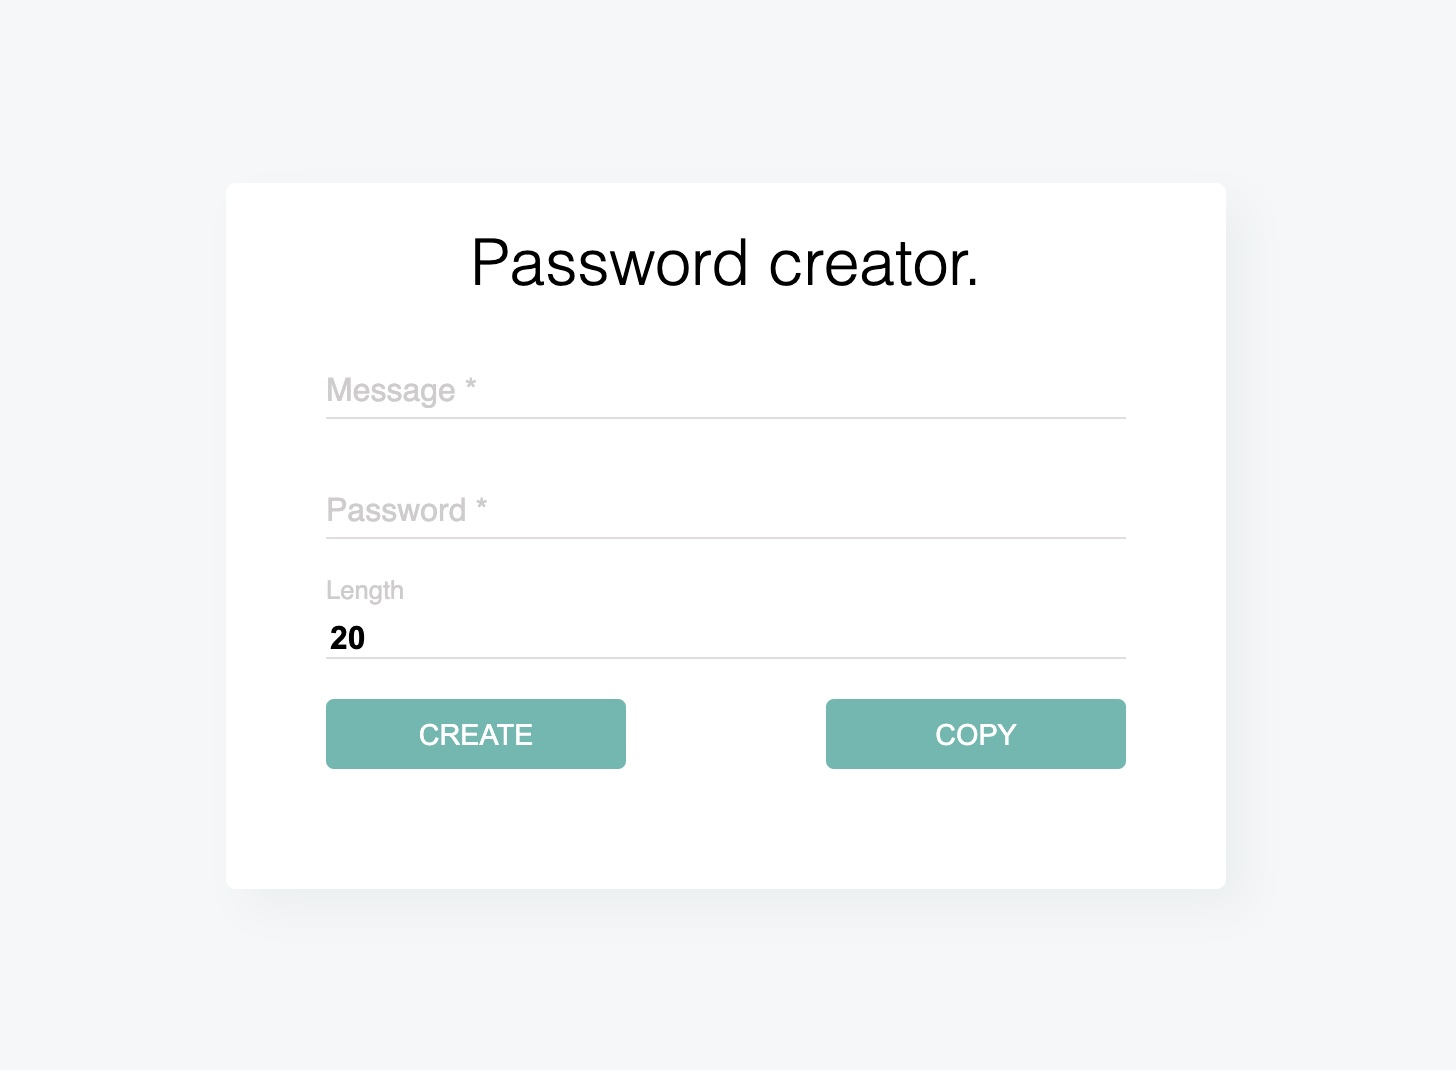
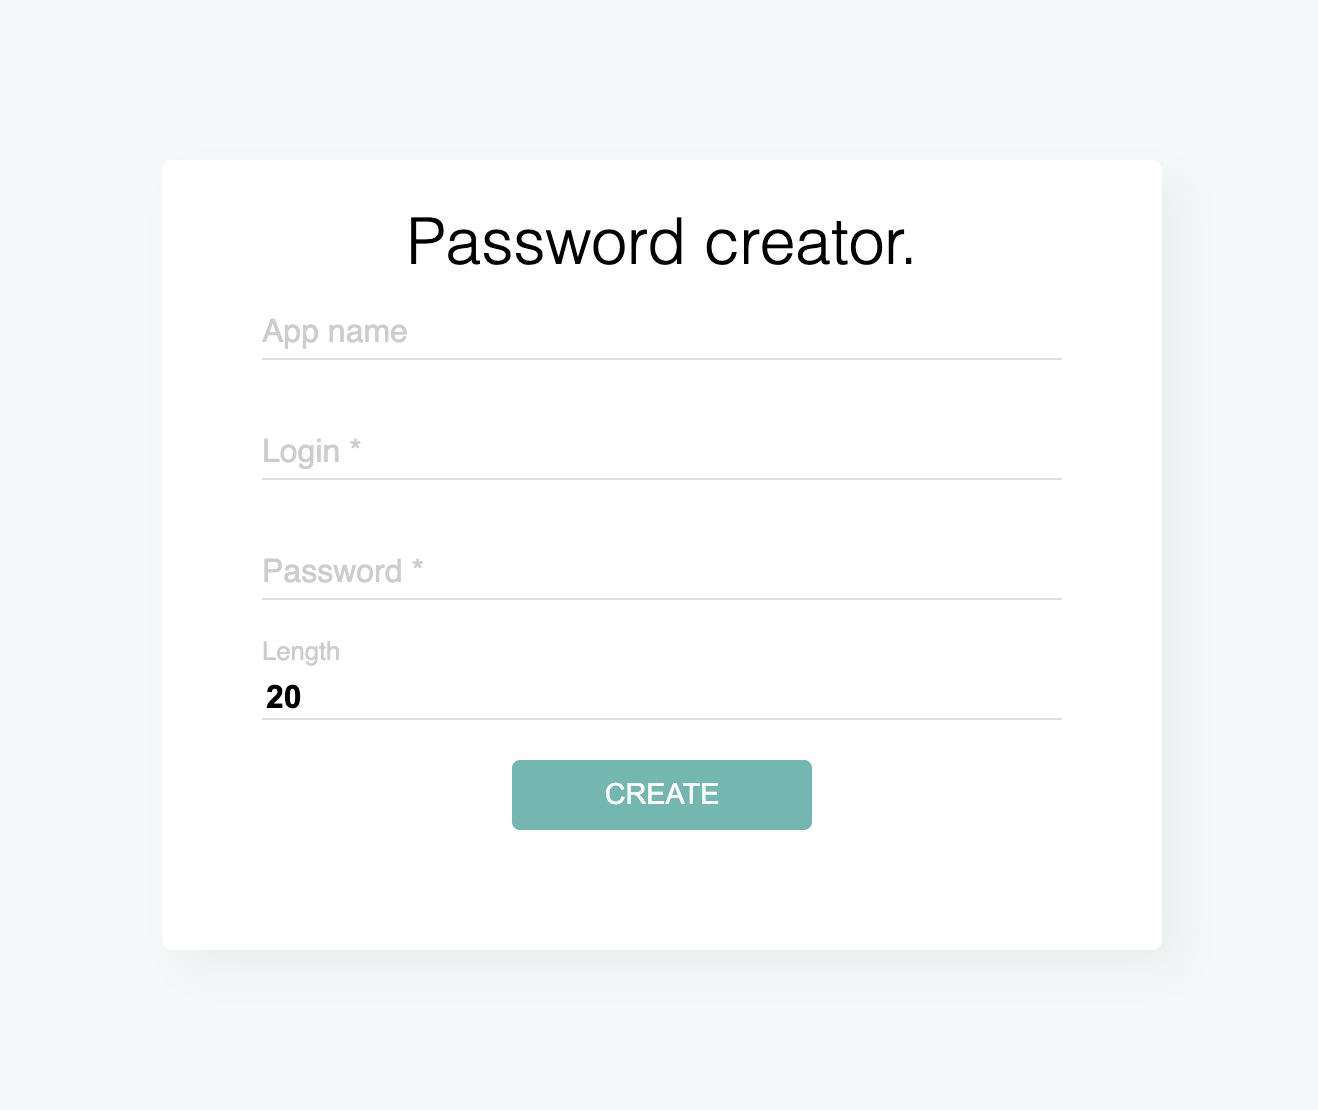
Updated an image, description. Added trimming of inputs

diff --git a/src/Controller.js b/src/Controller.js
@@ -17,12 +17,12 @@ export default class Controller {
 
   handleChangeAppName() {
     const appName = this.view.nodes.appName;
-    appName.value = appName.value.toLowerCase();
+    appName.value = appName.value.toLowerCase().trim();
   }
 
   handleChangeLogin() {
     const login = this.view.nodes.login;
-    login.value = login.value.toLowerCase();
+    login.value = login.value.toLowerCase().trim();
   }
 
   handleClickEncryptBtn() {

diff --git a/README.md b/README.md
@@ -5,31 +5,36 @@
 ---
 
 This tool helps you to create a strong password by using a simple one.
-It uses [SHA3](https://en.wikipedia.org/wiki/SHA-3) algorithm under the hood.
+
+###### It uses [SHA3](https://en.wikipedia.org/wiki/SHA-3) algorithm under the hood.
 
 
 ### Examples
 
-You need to know only one password. For example - `supermanpass`.
+You need to know only one password. For example - `my_easy_password`.
 
-- Message: `superman33@gmail.com`
-- Passowrd: `supermanpass`
+- App name: ``
+- Login *: `superman33@gmail.com`
+- Passowrd *: `my_easy_password`
 - Length: `20`
-- Result: `7gH12wa0EraHPFDPghih`
+- Result: `TwAwpvi4Rj1PrgiL8ZZA`
 ---
-- Message: `steam superman33`
-- Passowrd: `supermanpass`
-- Length: `5`
-- Result: `Yg7tK`
----
-- Message: `gmail:superman33`
-- Passowrd: `supermanpass`
-- Length: `30`
-- Result: `6gxkRNnwJ6nHaCODM0Yn9vSR135Edu`
----
-- Message: `instagram mega_cat`
-- Passowrd: `supermanpass`
+- App name: `steam`
+- Login *: `superman33`
+- Passowrd *: `my_easy_password`
 - Length: `10`
-- Result: `7AcAFKqzaA`
+- Result: `rwje9gPWe3`
+---
+- App name: `gmail`
+- Login *: `superman33`
+- Passowrd *: `my_easy_password`
+- Length: `30`
+- Result: `SgqnHd2p4KVLFoBExIdbdY7OuFaNw6`
+---
+- App name: `instagram`
+- Login *: `@mega_cat`
+- Passowrd: `my_easy_password`
+- Length: `40`
+- Result: `8wOuTElCmf1hcuRZCJGWFWO7JOze4WmI0Em98yVB`
 
-#### Simple rule of security: Each account must have a unique password
+#### A simple rule of security: Each account must have a unique password
